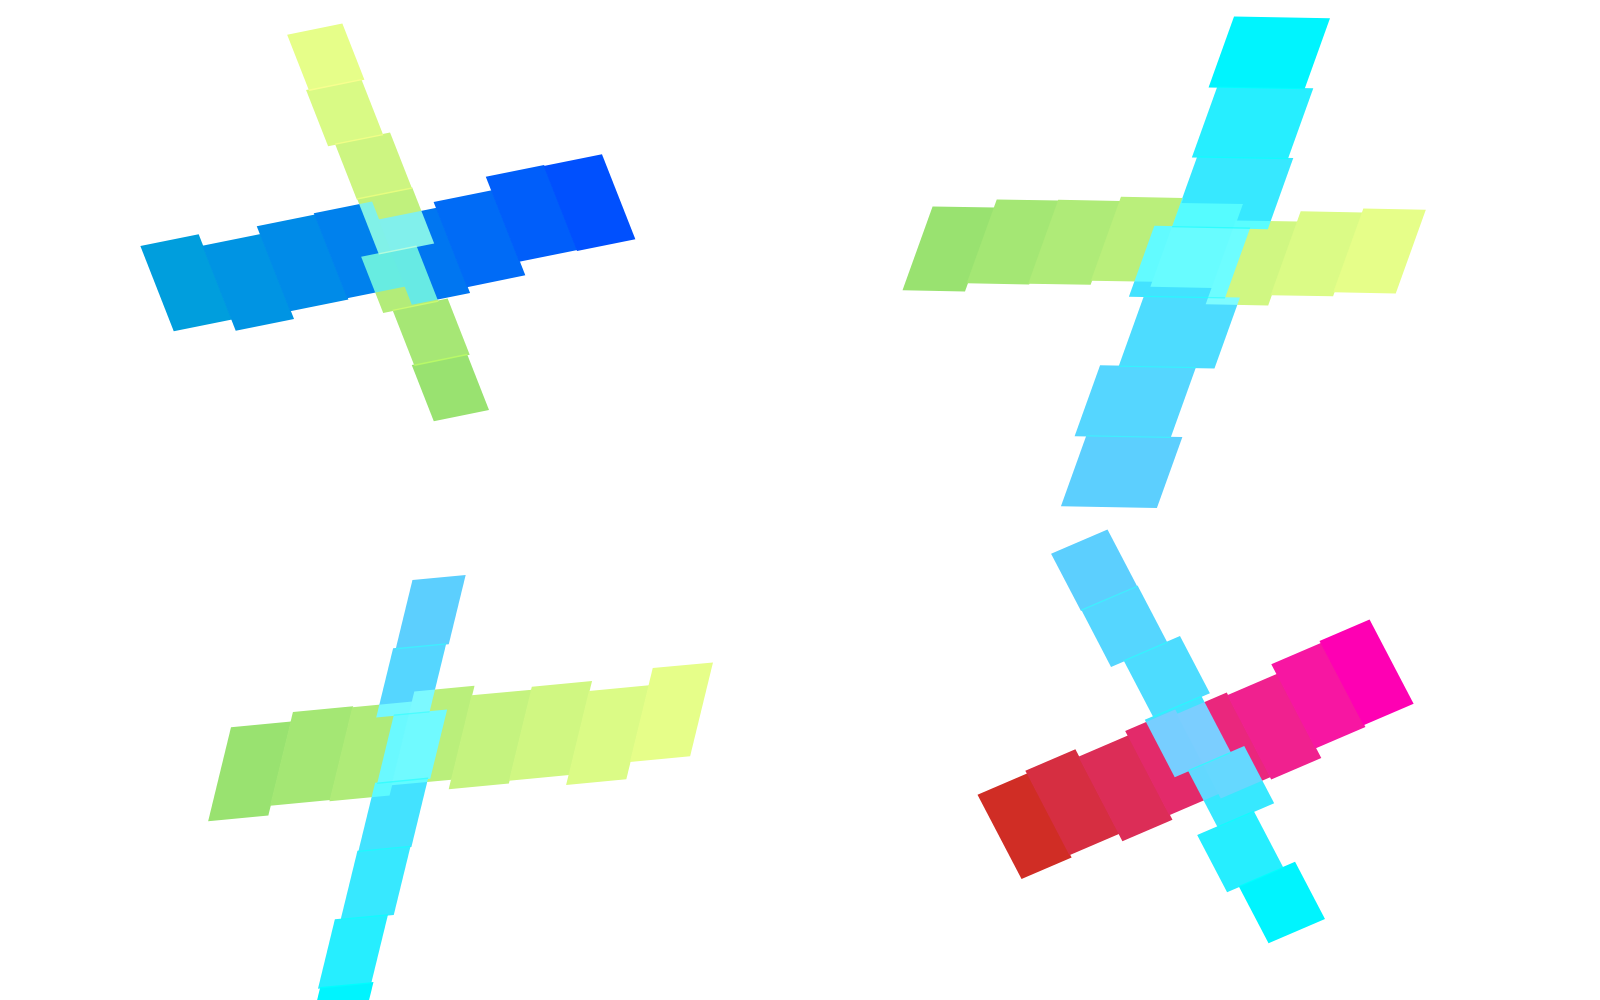
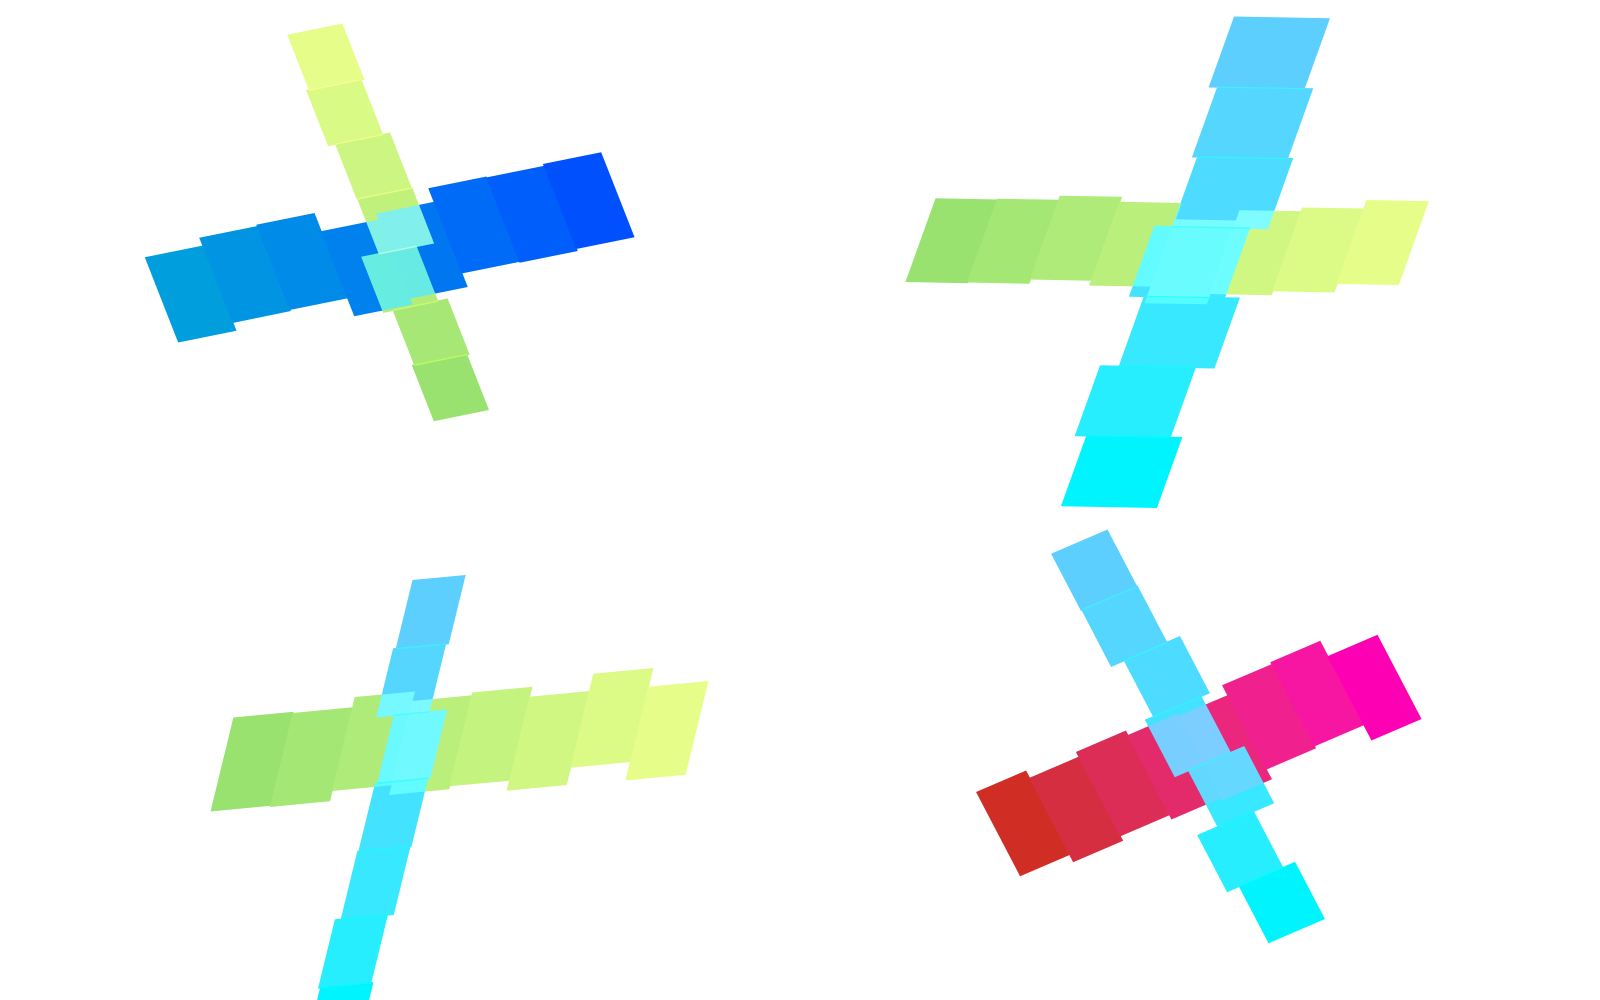
Conceptos abstractos desde la cruz: optimismo, cabezonería, trabajo duro, calma, caos, unión
Claude-Session: https://claude.ai/code/session_016ZNo35b44Yh7ZNd6P6WE65

diff --git a/app/engine.js b/app/engine.js
@@ -96,17 +96,18 @@ const ramp = (fams, t) => {
   // Cruz "+": barra horizontal + barra vertical, cada una con su familia y degradado
   function plus(ctx, cx, cy, s, o) {
     const R = o.R, fa = o.famH, fb = o.famV;
-    const L1 = s * R.range(0.55, 1), L2 = s * R.range(0.55, 1);
-    const T1 = s * R.range(0.12, 0.34), T2 = s * R.range(0.14, 0.34);
-    const U1 = s * R.range(0.55, 1), U2 = s * R.range(0.55, 1);
+    const L1 = s * (o.L1 ?? R.range(0.55, 1)), L2 = s * (o.L2 ?? R.range(0.55, 1));
+    const T1 = s * (o.T1 ?? R.range(0.12, 0.34)), T2 = s * (o.T2 ?? R.range(0.14, 0.34));
+    const U1 = s * (o.U1 ?? R.range(0.55, 1)), U2 = s * (o.U2 ?? R.range(0.55, 1));
+    const rH = o.revH ?? (R() < 0.5), rV = o.revV ?? (R() < 0.5);
     const n = o.steps || R.int(5, 9);
     ctx.save();
     ctx.translate(cx, cy);
     if (o.rot) ctx.rotate(o.rot);
     if (o.skew) ctx.transform(1, 0, o.skew, 1, 0, 0);
-    strips(ctx, fa, -L1, -T1 / 2, L1 + L2, T1, n, true, R() < 0.5, o.jitter || 0, R);
+    strips(ctx, fa, -L1, -T1 / 2, L1 + L2, T1, n, true, rH, o.jitter || 0, R);
     ctx.globalCompositeOperation = 'hard-light'; // modo de fusión de la identidad (Illustrator: Luz fuerte)
-    strips(ctx, fb, -T2 / 2, -U1, T2, U1 + U2, Math.max(4, n - 1), false, R() < 0.5, o.jitter || 0, R);
+    strips(ctx, fb, -T2 / 2, -U1, T2, U1 + U2, Math.max(o.steps ? 2 : 4, n - 1), false, rV, o.jitter || 0, R);
     ctx.globalCompositeOperation = 'source-over';
     ctx.restore();
   }
@@ -406,6 +407,86 @@ const ramp = (fams, t) => {
     }
   }
 
+
+  /* ---------- Conceptos: forma = idea (todo parte de la cruz con tiras) ---------- */
+  const ease = (t) => t * t * (3 - 2 * t);
+
+  // OPTIMISMO: cruces que ascienden y crecen hacia delante; el brazo vertical se estira hacia arriba y se aclara
+  function optimismo(ctx, W, H, o) {
+    const R = o.R, n = 6, seqH = ['yellow', 'lime', 'green', 'cyan', 'blue'], seqV = ['red', 'yellow', 'lime', 'cyan', 'yellow'];
+    const off = R.range(-0.03, 0.03);
+    for (let i = 0; i < n; i++) {
+      const t = i / (n - 1), k = Math.min(seqH.length - 1, Math.floor(t * seqH.length));
+      plus(ctx, W * (0.12 + 0.68 * t), H * (0.8 - 0.4 * Math.pow(t, 0.9) + off * Math.sin(i * 1.7)), H * (0.07 + 0.14 * t),
+        { R, famH: seqH[k], famV: seqV[k], L1: 1, L2: 1, U1: 1.5, U2: 0.45, T1: 0.4, T2: 0.4, rot: 0.04 + 0.14 * t, steps: 7, revH: false, revV: true });
+    }
+  }
+
+  // CABEZONERÍA: el flujo choca contra una cruz maciza e inamovible; los bloques se comprimen y se calientan
+  function cabezoneria(ctx, W, H, o) {
+    const R = o.R, cx = W * R.range(0.6, 0.68), cy = H * 0.5, s = H * 0.36, T = 0.44;
+    const rows = 13, rh = H / rows, x0 = W * 0.04, m = 9;
+    for (let k = 0; k < rows; k++) {
+      const y = (k + 0.5) * rh;
+      const hit = Math.abs(y - cy) <= s, face = !hit ? W * 0.97 : (Math.abs(y - cy) <= T * s / 2 ? cx - s : cx - T * s / 2);
+      const L = face - x0;
+      for (let j = 0; j < m; j++) {
+        const a = x0 + L * (1 - Math.pow(1 - j / m, 1.8)), b = x0 + L * (1 - Math.pow(1 - (j + 1) / m, 1.8));
+        const heat = hit ? (j + 1) / m : 0.15 + 0.2 * (j / m);
+        ctx.fillStyle = rgb(ramp(['yellow', 'red'], heat));
+        const dy = hit ? R.range(-1, 1) * rh * 0.1 * heat : 0;
+        ctx.fillRect(a, y - rh * 0.38 + dy, b - a - (hit ? 1 : 0.5), rh * 0.76);
+      }
+    }
+    plus(ctx, cx, cy, s, { R, famH: 'red', famV: 'red', L1: 1, L2: 1, U1: 1, U2: 1, T1: T, T2: T, steps: 3, revH: false, revV: false });
+  }
+
+  // TRABAJO DURO: cruces apiladas como ladrillos en una pirámide; la última fila sigue a medio hacer
+  function trabajo(ctx, W, H, o) {
+    const R = o.R, rowsN = 6, cs = H * 0.09, pitch = cs * 2, seq = ['red', 'yellow', 'lime', 'green', 'cyan', 'blue'];
+    const vs = R.pick([0, 2, 4]);
+    for (let r = 0; r < rowsN; r++) {
+      const count = 8 - r, y = H * 0.88 - r * cs * 1.4, x0 = W / 2 - ((count - 1) / 2) * pitch;
+      for (let c = 0; c < count; c++) {
+        const half = r === rowsN - 1 && c >= count - 2;                         // fila de arriba sin terminar
+        plus(ctx, x0 + c * pitch, y, cs, { R, famH: seq[r], famV: seq[(r + 1 + vs) % 6], L1: 1, L2: 1, U1: half ? 0.2 : 1, U2: half ? 0.2 : 1,
+          T1: 0.5, T2: 0.5, steps: 4, revH: r % 2 === 0, revV: false });
+      }
+    }
+  }
+
+  // CALMA: pocas cruces, alineadas en el horizonte, brazos largos y horizontales, muchos pasos suaves y mucho aire
+  function calma(ctx, W, H, o) {
+    const R = o.R, cool = ['blue', 'cyan', 'green', 'lime'], n = 3, y = H * 0.5;
+    const picks = [R.pick(cool), R.pick(cool), R.pick(cool)];
+    for (let i = 0; i < n; i++) {
+      plus(ctx, W * (0.2 + 0.3 * i), y, H * 0.2, { R, famH: picks[i], famV: cool[(cool.indexOf(picks[i]) + 1) % 4], L1: 1.25, L2: 1.25, U1: 0.6, U2: 0.6, T1: 0.34, T2: 0.1, steps: 14, revH: false, revV: false });
+    }
+    strips(ctx, 'cyan', W * 0.08, H * 0.8, W * 0.84, H * 0.03, 28, true, false, 0, R);   // línea de horizonte
+  }
+
+  // CAOS: muchas cruces de todos los tamaños, giradas y solapadas en Luz fuerte
+  function caos(ctx, W, H, o) {
+    const R = o.R;
+    ctx.globalCompositeOperation = 'hard-light';
+    for (let i = 0; i < 42; i++) {
+      const fa = R.pick(ORDER), fb = otherFam(R, fa);
+      plus(ctx, R.range(0, W), R.range(0, H), H * R.range(0.04, 0.2), { R, famH: fa, famV: fb, rot: R.range(-1.4, 1.4), skew: R.range(-0.5, 0.5), jitter: H * 0.01, steps: R.int(4, 9) });
+    }
+    ctx.globalCompositeOperation = 'source-over';
+  }
+
+  // UNIÓN: un anillo de cruces cuyos brazos se solapan con los vecinos y mezclan sus colores
+  function union(ctx, W, H, o) {
+    const R = o.R, n = R.pick([6, 7, 8]), rad = H * 0.3, cx = W / 2, cy = H / 2, chord = 2 * rad * Math.sin(Math.PI / n);
+    const st = R.int(0, 5);
+    for (let i = 0; i < n; i++) {
+      const a = (i / n) * Math.PI * 2 - Math.PI / 2;
+      plus(ctx, cx + rad * Math.cos(a), cy + rad * Math.sin(a), chord * 0.62,
+        { R, famH: ORDER[(st + i) % 6], famV: ORDER[(st + i + 3) % 6], rot: a + Math.PI / 2, L1: 1, L2: 1, U1: 0.55, U2: 0.55, T1: 0.34, T2: 0.28, steps: 7, revH: false, revV: false });
+    }
+  }
+
   /* ---------- Composiciones ---------- */
   const COMPS = {
     mas(ctx, W, H, o) { // retícula de cruces ("posibilidades infinitas")
@@ -434,11 +515,13 @@ const ramp = (fams, t) => {
     mezcla: (ctx, W, H, o) => overprint(ctx, W, H, o),
     figura: (ctx, W, H, o) => figure(ctx, W, H, o),
     silueta: (ctx, W, H, o) => pixelFigure(ctx, W, H, o),
+    optimismo, cabezoneria, trabajo, calma, caos, union,
     disolver(ctx, W, H, o) { dissolvePlus(ctx, W, H, { ...o, famH: o.R.pick(ORDER), famV: otherFam(o.R, o.R.pick(ORDER)) }); },
   };
 
   // Conceptos -> composición (modo abstracto "que genera conceptos")
   const CONCEPTOS = {
+    optimismo: 'optimismo', cabezonería: 'cabezoneria', 'trabajo duro': 'trabajo', calma: 'calma', caos: 'caos', unión: 'union',
     expandir: 'flujo', crecer: 'molinillo', sumar: 'mas', unir: 'cruz',
     diversidad: 'campo', mezclar: 'mezcla', conectar: 'bandas', transformar: 'disolver',
   };

diff --git a/app/render.js b/app/render.js
@@ -15,6 +15,18 @@ const jobs = [
   ['10-mezclar-superposicion-b',{ comp: 'mezcla', seed: 26 }],
   ['11-diversidad-mosaico',    { comp: 'campo', seed: 21 }],
   ['12-diversidad-mosaico-b',  { comp: 'campo', seed: 64 }],
+  ['20-optimismo-a',           { comp: 'optimismo', seed: 3 }],
+  ['21-optimismo-b',           { comp: 'optimismo', seed: 9 }],
+  ['22-cabezoneria-a',         { comp: 'cabezoneria', seed: 2 }],
+  ['23-cabezoneria-b',         { comp: 'cabezoneria', seed: 7 }],
+  ['24-trabajo-duro-a',        { comp: 'trabajo', seed: 1 }],
+  ['25-trabajo-duro-b',        { comp: 'trabajo', seed: 4 }],
+  ['26-calma-a',               { comp: 'calma', seed: 5 }],
+  ['27-calma-b',               { comp: 'calma', seed: 12 }],
+  ['28-caos-a',                { comp: 'caos', seed: 6 }],
+  ['29-caos-b',                { comp: 'caos', seed: 15 }],
+  ['30-union-a',               { comp: 'union', seed: 2 }],
+  ['31-union-b',               { comp: 'union', seed: 8 }],
   ['13-figura-demo-a',         { comp: 'figura', seed: 2 }],
   ['14-figura-demo-b',         { comp: 'figura', seed: 6 }],
   ['15-figura-demo-c',         { comp: 'figura', seed: 11 }],
